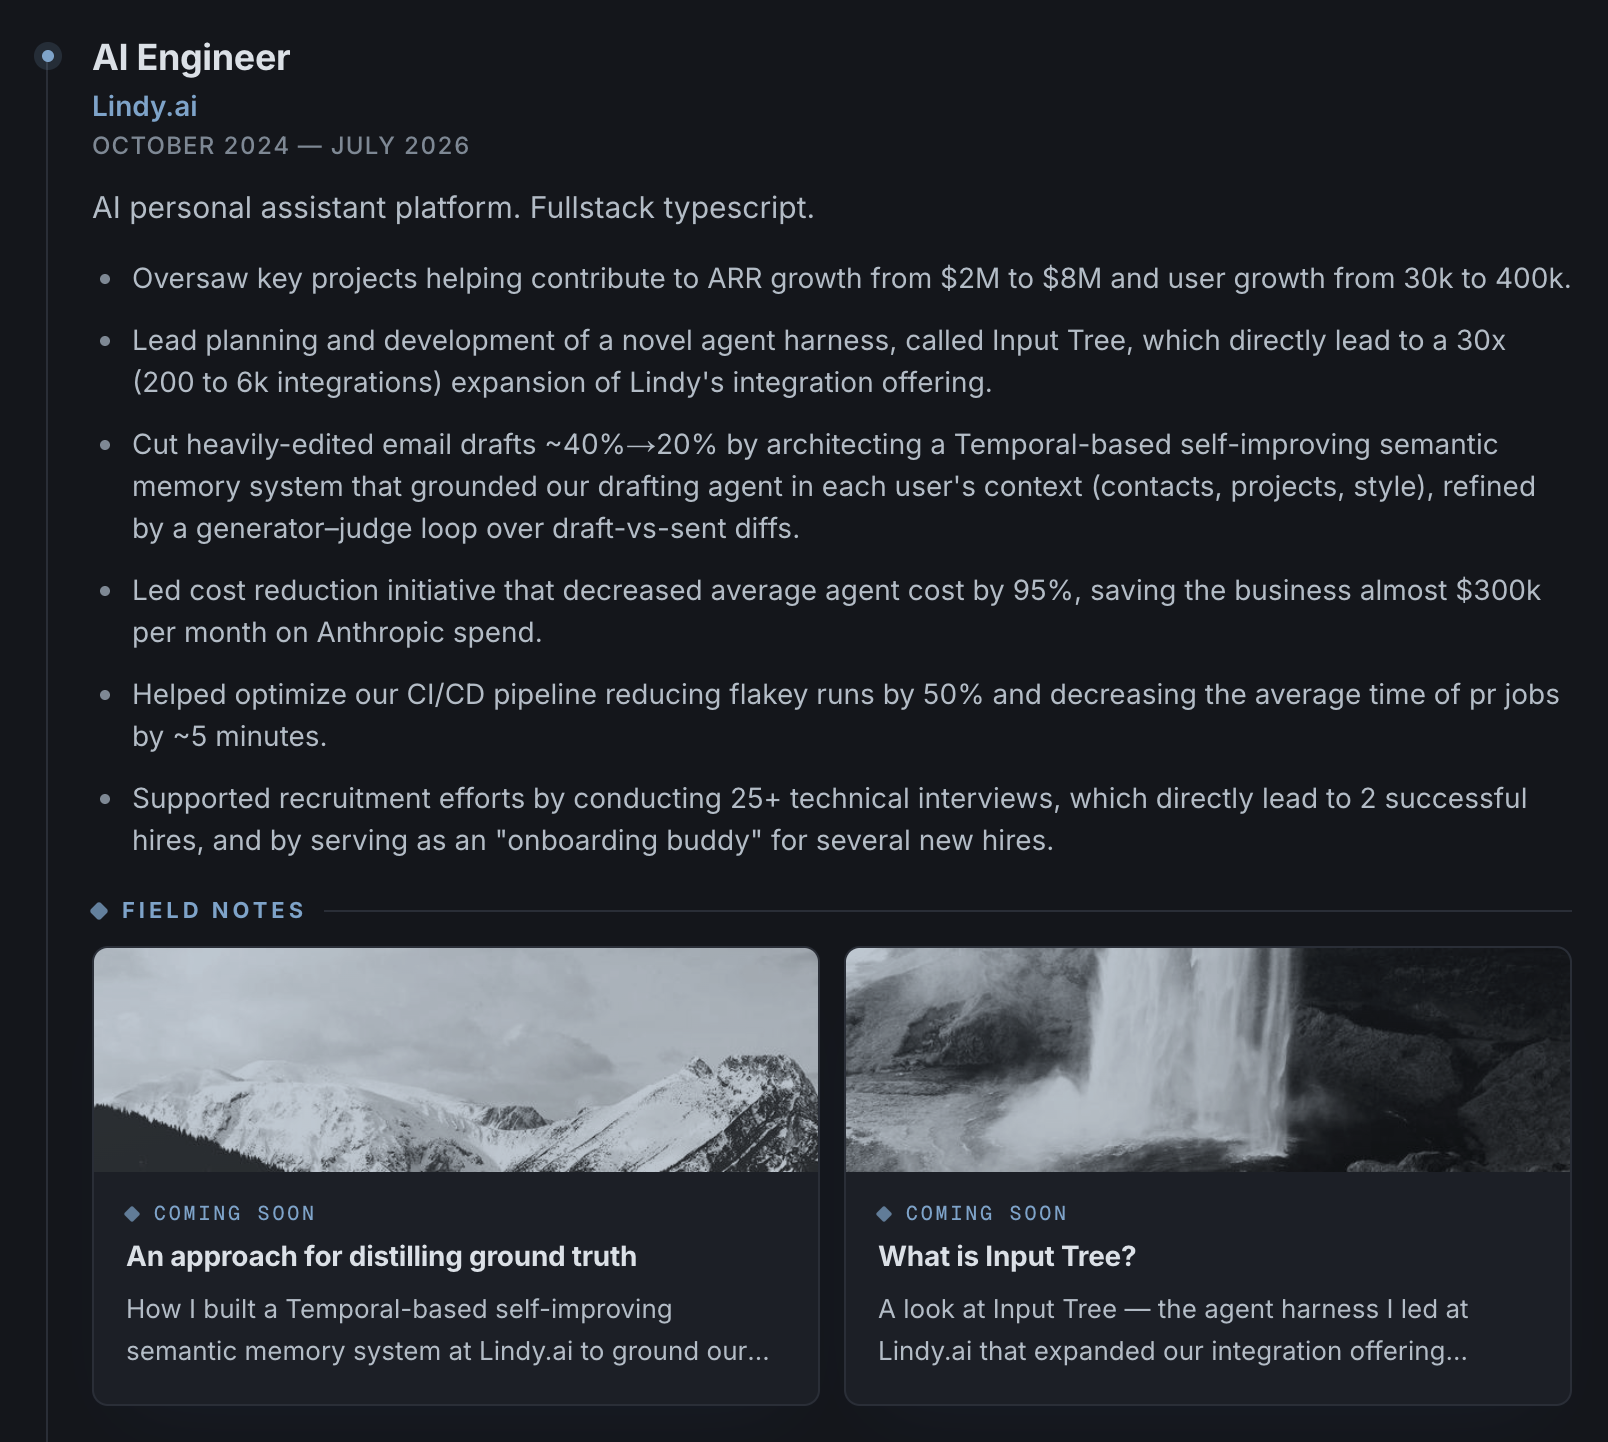
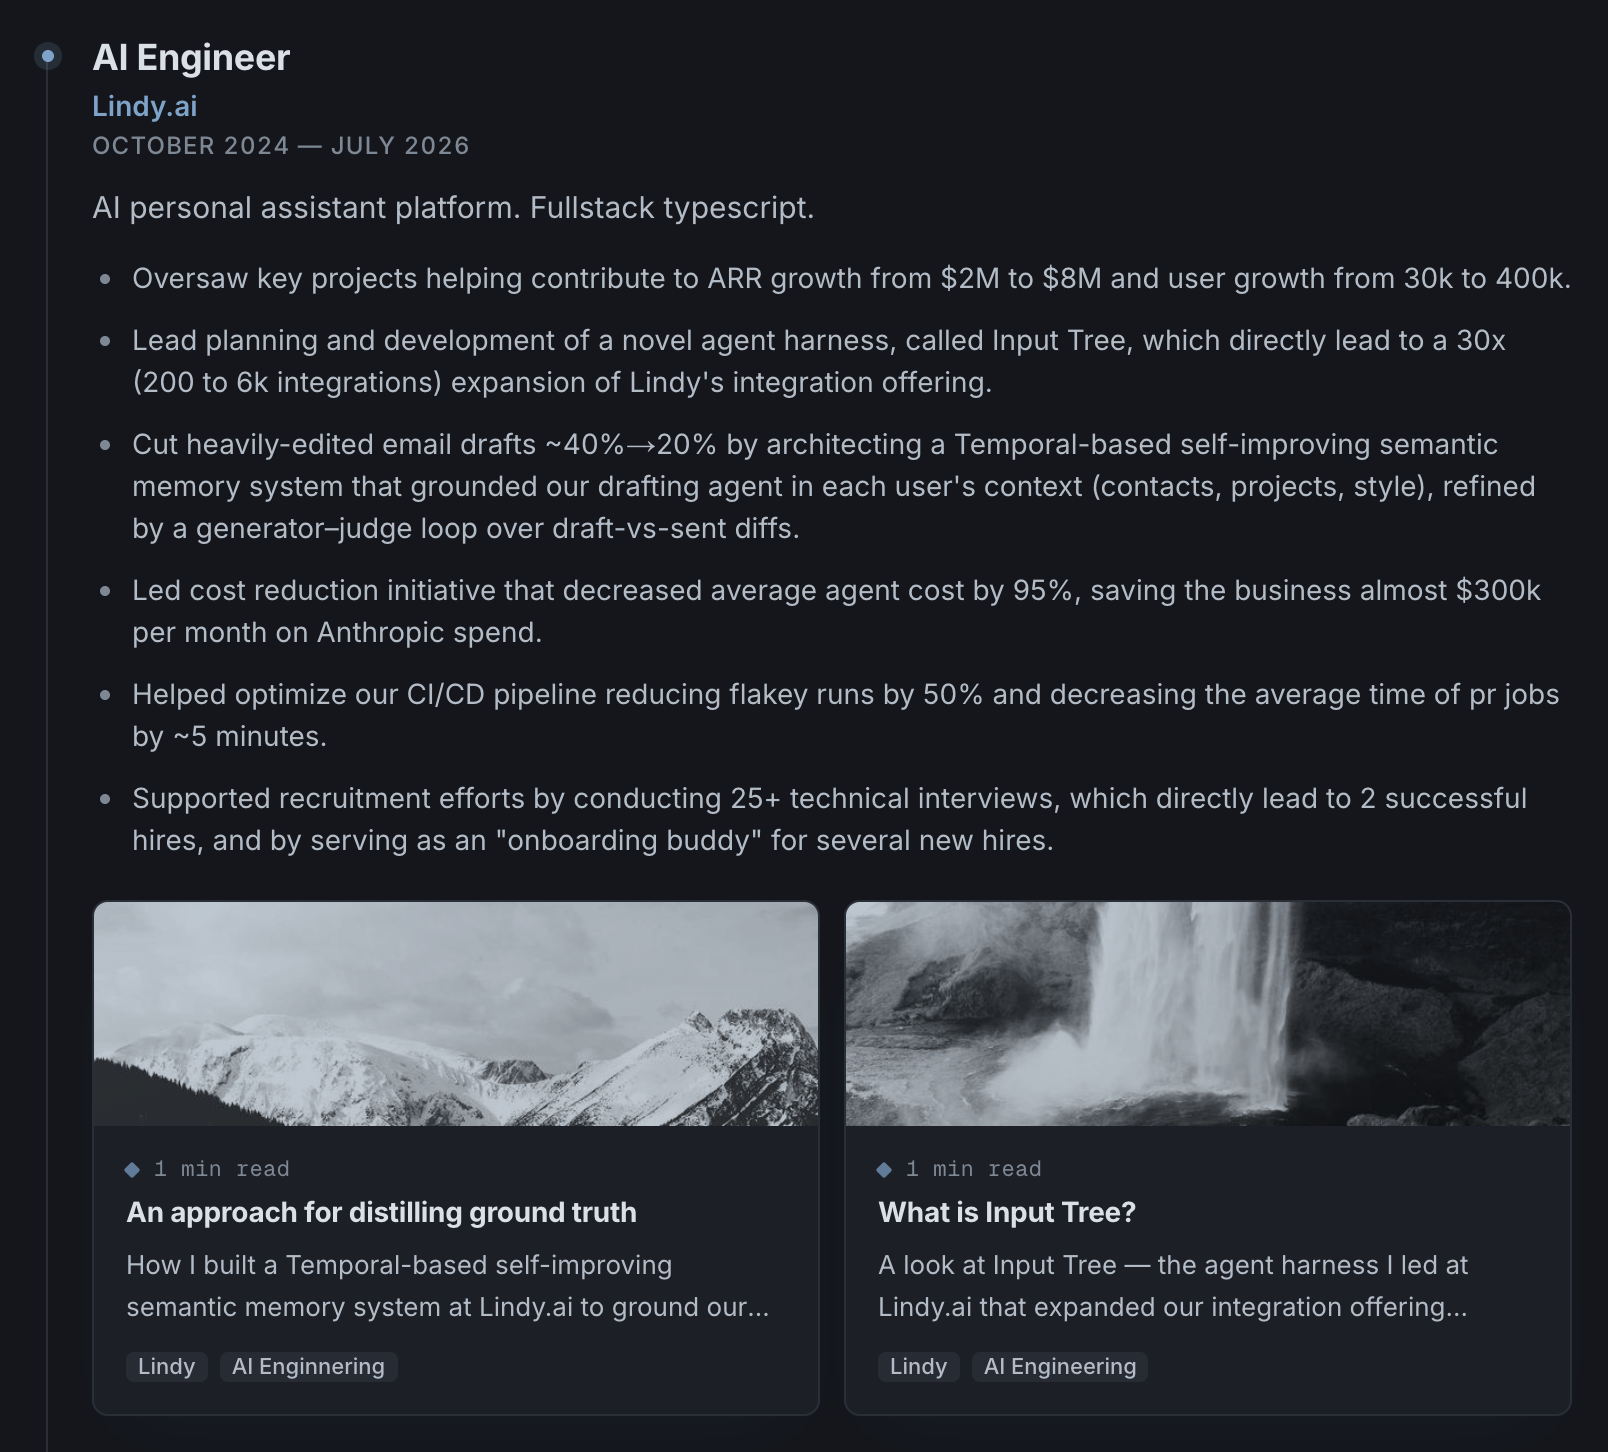
refactor(field-notes): cards show reading time + tags; drop coming-soon chip and label
Per review: the field-note cards under an experience now list the reading
time and the note's own DB tags instead of a synthetic "Coming soon" chip,
and the "Field notes" label/divider above the grid is removed so the cards
sit directly under the bullets.

diff --git a/components/articles/FieldNoteCard.tsx b/components/articles/FieldNoteCard.tsx
@@ -20,15 +20,10 @@ interface FieldNoteCardProps {
 /**
  * Compact teaser for a "field note" shown under a work experience. Cover art is
  * desaturated and washed with the brand denim so a grid of otherwise-mismatched
- * stock shots still reads as one set. "Coming soon" notes swap the reading time
- * for a small status chip.
+ * stock shots still reads as one set. Meta shows the reading time and the note's
+ * own tags.
  */
 export default function FieldNoteCard({ article }: FieldNoteCardProps) {
-  const comingSoon = /coming soon/i.test(article.summary);
-  const summary = article.summary
-    .replace(/\s*\(coming soon\.?\)\s*/i, ' ')
-    .trim();
-
   return (
     <Link
       href={`/articles/${article.slug}`}
@@ -51,22 +46,28 @@ export default function FieldNoteCard({ article }: FieldNoteCardProps) {
             aria-hidden
             className="h-[6px] w-[6px] rotate-45 rounded-[1px] bg-brand/70"
           />
-          {comingSoon ? (
-            <span className="font-data text-[10px] font-medium uppercase leading-none tracking-[0.14em] text-brand">
-              Coming soon
-            </span>
-          ) : (
-            <span className="font-data text-[11px] leading-none tracking-[0.02em] text-subtle">
-              {readingTimeMinutes(article.body)} min read
-            </span>
-          )}
+          <span className="font-data text-[11px] leading-none tracking-[0.02em] text-subtle">
+            {readingTimeMinutes(article.body)} min read
+          </span>
         </div>
         <h4 className="text-sm font-bold leading-snug tracking-[-0.01em] text-ink transition-colors group-hover:text-brand">
           {article.title}
         </h4>
-        <p className="mt-1.5 line-clamp-2 text-[13px] leading-relaxed text-body">
-          {summary}
+        <p className="mt-1.5 line-clamp-2 flex-1 text-[13px] leading-relaxed text-body">
+          {article.summary}
         </p>
+        {article.tags.length ? (
+          <div className="mt-3 flex flex-wrap gap-1.5">
+            {article.tags.map((tag) => (
+              <span
+                key={tag}
+                className="rounded bg-chip px-1.5 py-0.5 text-[11px] font-medium leading-none text-chip-fg"
+              >
+                {tag}
+              </span>
+            ))}
+          </div>
+        ) : null}
       </div>
     </Link>
   );

diff --git a/components/sections/ExperienceFieldNotes.tsx b/components/sections/ExperienceFieldNotes.tsx
@@ -5,33 +5,17 @@ interface ExperienceFieldNotesProps {
   notes: Article[];
 }
 
-/**
- * The "Field notes" block that hangs under a work experience — a labelled
- * hairline divider (the "Field Notes" name carried over from the old ticker),
- * then a compact grid of note cards.
- */
+/** A compact grid of field-note cards shown under a work experience. */
 export default function ExperienceFieldNotes({
   notes,
 }: ExperienceFieldNotesProps) {
   if (!notes.length) return null;
 
   return (
-    <div className="mt-5">
-      <div className="mb-3 flex items-center gap-2">
-        <span
-          aria-hidden
-          className="h-[7px] w-[7px] rotate-45 rounded-[1.5px] bg-brand/75"
-        />
-        <h4 className="text-[11px] font-bold uppercase leading-none tracking-[0.18em] text-brand">
-          Field notes
-        </h4>
-        <span aria-hidden className="h-px flex-1 bg-hair" />
-      </div>
-      <div className="grid gap-3 sm:grid-cols-2">
-        {notes.map((note) => (
-          <FieldNoteCard key={note.id} article={note} />
-        ))}
-      </div>
+    <div className="mt-5 grid gap-3 sm:grid-cols-2">
+      {notes.map((note) => (
+        <FieldNoteCard key={note.id} article={note} />
+      ))}
     </div>
   );
 }
